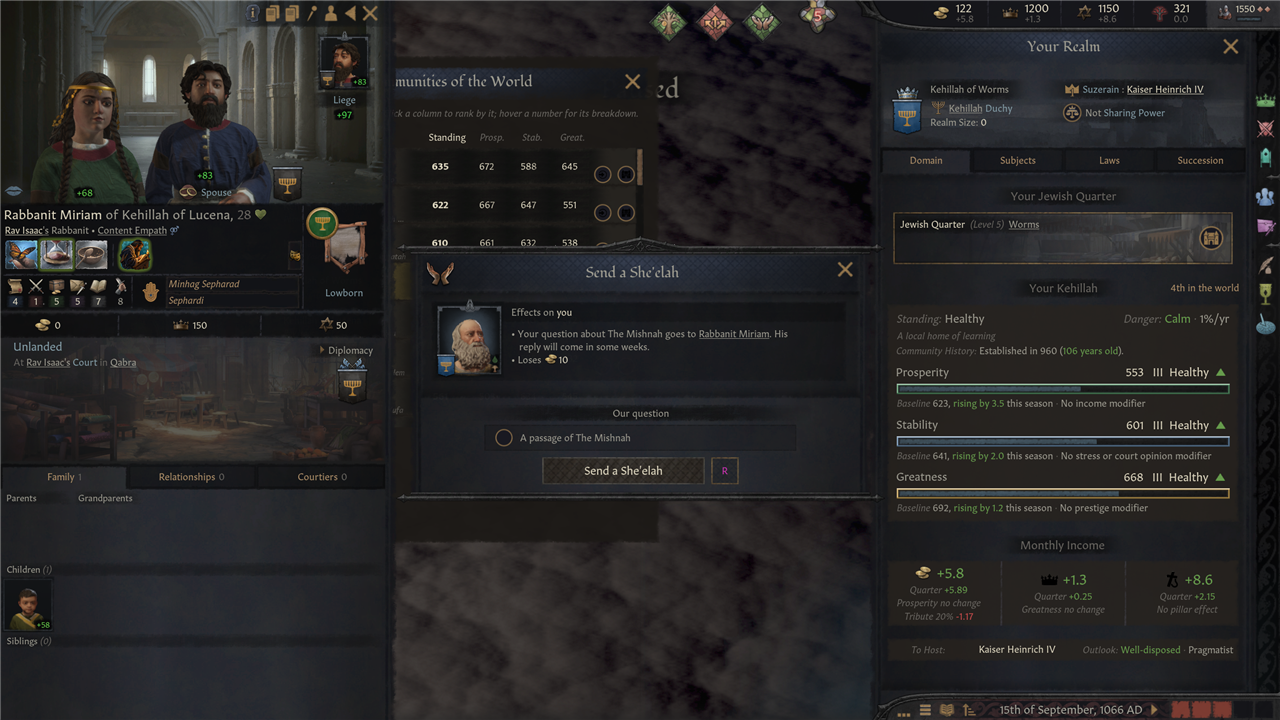
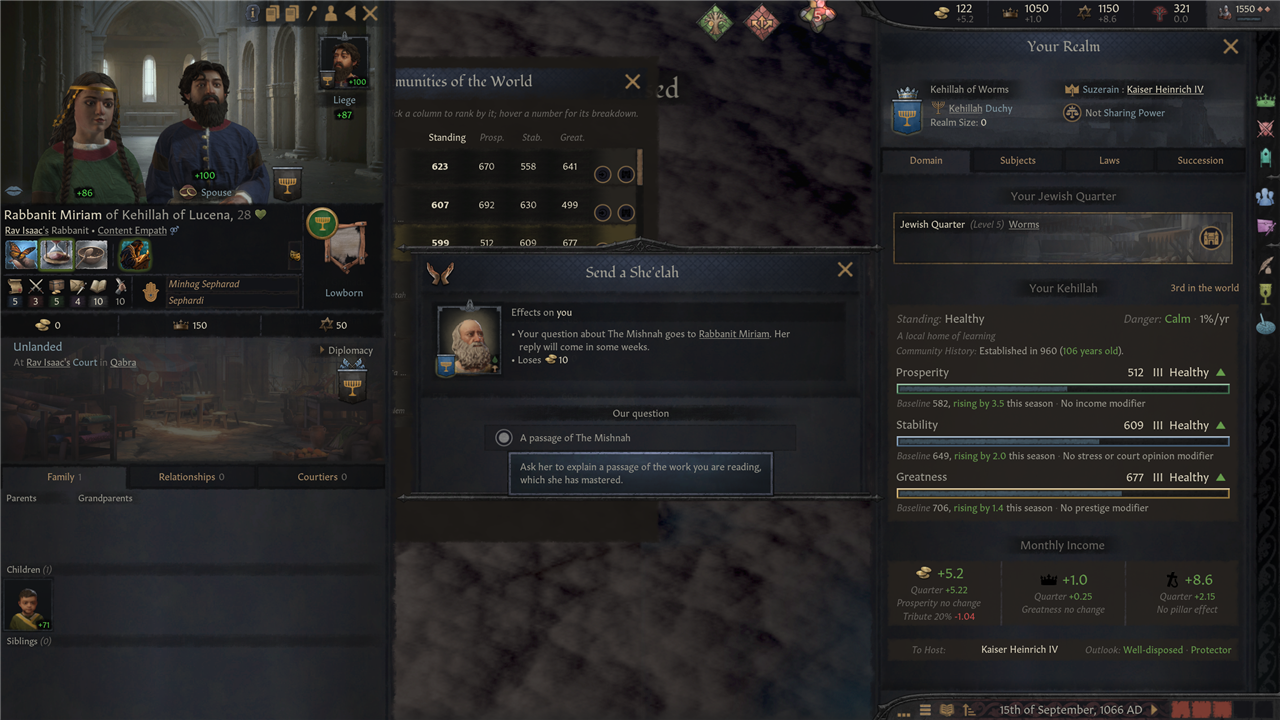
Send a She'elah live-tested in its merged form
Both options for leaders, the passage alone and preselected for courtier rabbis, gendered text, error.log clean. Screenshots 07-10.

diff --git a/docs/spec/2026-11-22-sheelot.md b/docs/spec/2026-11-22-sheelot.md
@@ -218,3 +218,18 @@ Help with Your Studies is no longer a separate interaction.
 - **Requirements and costs** follow the selected option, each with its own gift and cooldown.
 - **The events** stay separate (`.0001`/`.0002` for a case, `.0011`/`.0012` for a passage), since a ruling and an
   explanation read differently.
+
+**Live-tested 2026-11-22** (screenshots `07`-`10`):
+
+- both options for a leader, with the case selected;
+- only the passage, selected, for a courtier rabbi;
+- separate gifts and cooldowns;
+- texts that follow the rabbi's gender;
+- `error.log` clean.
+
+**Fixes found on the way:**
+
+- the passage label could not read `actor`, so it reads through `GetPlayer`;
+- courtiers carry the Kehillah government flag, so a leader is now tested by `kehillah_sheelah_is_leader_trigger`
+  (a ruler with a title);
+- the passage option's default selection.
